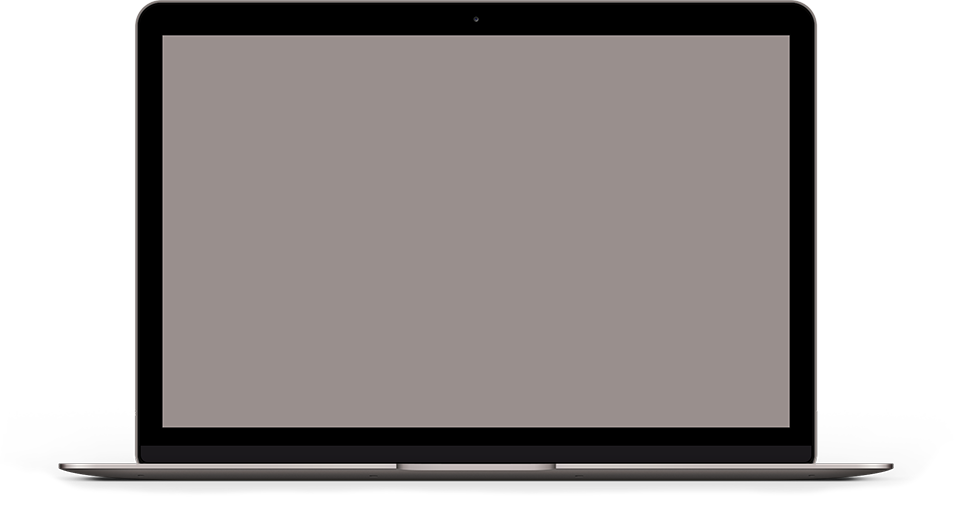
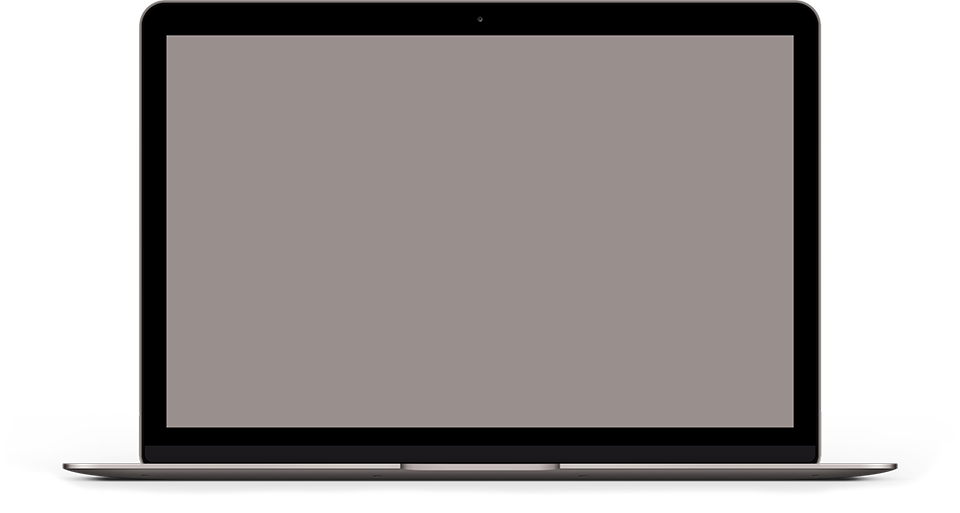
:iphone: Fix responsive for slick slider

diff --git a/assets/scss/_project.scss b/assets/scss/_project.scss
@@ -11,39 +11,87 @@
         margin: auto;
 
         .is-laptop {
+            max-width: 960px;
+            margin: auto;
+            height: 513px;
             display: block;
             position: relative;
-
-            img {
-                display: block;
-                margin: auto;
-                max-width: 100%;
-            }
+            background-image: url('/img/laptop.png');
+            background-position: top center;
+            background-size: contain;
+            background-repeat: no-repeat;
 
             .is-laptop-content {
-                width: 628px;
-                height: 393px;
-                position: absolute;
+                max-width: 628px;
+                margin: auto;
                 top: 35px;
-                left: 162px;
                 overflow: hidden;
+            }
+
+            @media only screen and (max-width: 965px) {
+                max-width: 600px;
+                height: 325px;
+
+                .is-laptop-content {
+                    max-width: 395px;
+                    top: 21px;
+                }
+            }
+
+            @media only screen and (max-width: 600px) {
+                display: none;
             }
         }
 
         .is-mobile {
             display: block;
             position: absolute;
-            max-width: 200px;
-            right: 40px;
-            bottom: 30px;
+            width: 200px;
+            height: 350px;
+            right: 20px;
+            bottom: 50px;
+            background-image: url('/img/mobile.png');
+            background-position: top center;
+            background-size: cover;
+            background-repeat: no-repeat;
 
             .is-mobile-content {
-                width: 139px;
-                height: 247px;
-                position: absolute;
+                width: 140px;
+                height: 248px;
                 top: 40px;
                 left: 30px;
-                overflow: hidden;
+            }
+
+            @media only screen and (max-width: 965px) {
+                width: 100px;
+                height: 200px;
+                right: 170px;
+                bottom: 50px;
+
+                .is-mobile-content {
+                    width: 79px;
+                    height: 100px;
+                    top: 23px;
+                    left: 10px;
+                }
+            }
+
+            @media only screen and (max-width: 600px) {
+                position: relative;
+                top: initial;
+                left: initial;
+                right: initial;
+                bottom: initial;
+                margin: auto;
+                width: 200px;
+                height: 350px;
+
+                    .is-mobile-content {
+                        width: 140px;
+                        height: 248px;
+                        top: 40px;
+                        left: 30px;
+                    }
             }
         }
 
@@ -77,6 +125,10 @@
                         margin-right: 0;
                     }
                 }
+            }
+
+            @media only screen and (max-width: 600px) {
+                display: none;
             }
         }
     }

diff --git a/assets/js/main.js b/assets/js/main.js
@@ -59,9 +59,14 @@ domReady(function() {
         slidesToScroll: 1,
         arrows: false,
         cssEase: 'ease-in-out',
-        variableWidth: true,
         asNavFor: '.slick-nav, .is-laptop-content, .is-mobile-content',
         draggable: true,
+        mobileFirst: true,
+        variableWidth: false,
+        adaptativeHeight: false,
+        lazyload: 'ondemand',
+        centerMode: true,
+        centerPadding: 0,
     }
 
     let slickNav = {
@@ -79,4 +84,10 @@ domReady(function() {
     jQuery('.is-laptop-content').slick(slickCarousel);
     jQuery('.is-mobile-content').slick(slickCarousel);
     jQuery('.slick-nav').slick(slickNav);
+
+    // Refreshing on resize
+    jQuery(window).on('resize orientationchange', function() {
+        jQuery('.is-laptop-content').slick('resize');
+        jQuery('.is-mobile-content').slick('resize');
+    });
 });

diff --git a/layouts/projects/single.html b/layouts/projects/single.html
@@ -14,7 +14,6 @@
     <div class="is-showcase">
         {{ if .Params.gallery }}
         <div class="is-laptop">
-            <img src="/img/laptop.png" alt="Laptop">
             <div class="is-laptop-content is-slick as-nav">
                 {{ range .Params.gallery }}
                     <div><img src="/img/projects/{{ . }}" alt="Project image"></div>
@@ -24,7 +23,6 @@
         {{ end }}
         {{ if .Params.galleryMobile }}
             <div class="is-mobile">
-                <img src="/img/mobile.png" alt="Mobile">
                 <div class="is-mobile-content is-slick as-nav">
                     {{ range .Params.galleryMobile }}
                         <div><img src="/img/projects/{{ . }}" alt="Project image"></div>
